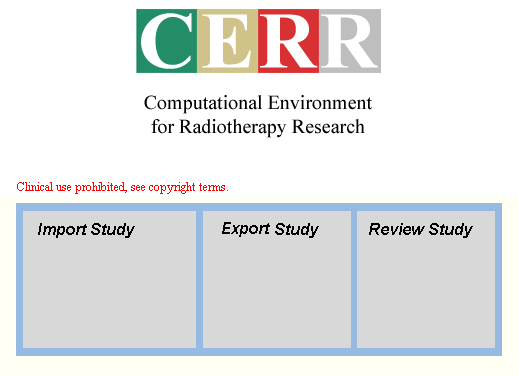
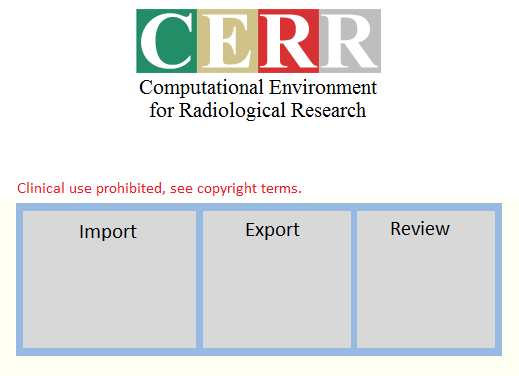
updated name to use "Radiological"

diff --git a/CERR_core/CERR.m b/CERR_core/CERR.m
@@ -79,7 +79,7 @@ if(nargin == 0)
     colormap(map);
     set(CERRStartupFig, 'Name',' CERR control panel'); % ES 28 Aug 2003
     set(gca, 'Position', [0 0 1 1]);
-    image(background, 'CDataMapping', 'direct')
+    image(background, 'CDataMapping', 'direct','parent',gca)
     axis(gca,'off', 'image')
     
     %get local and remote git info
@@ -90,13 +90,13 @@ if(nargin == 0)
         [remoteGitHash, localGitInfo] = getGitInfo;
     end
     [ver, date] = CERRCurrentVersion;    
-    uicontrol('units',units,'Position',[0 .57 0.3 .04],'String','Local GitHub Hash:','Style','text', 'BackgroundColor', [1 1 1], 'FontSize', 10, 'FontName', 'FixedWidth', 'HorizontalAlignment', 'right');
+    uicontrol('units',units,'Position',[0 .6 0.3 .04],'String','Local GitHub Hash:','Style','text', 'BackgroundColor', [1 1 1], 'FontSize', 10, 'FontName', 'FixedWidth', 'HorizontalAlignment', 'right');
     if ~isempty(localGitInfo)
-        uicontrol('units',units,'Position',[0.31 .57 0.67 .04],'String',localGitInfo.hash,'Style','edit', 'BackgroundColor', [1 1 1], 'FontSize', 10, 'FontName', 'FixedWidth', 'HorizontalAlignment', 'left');
+        uicontrol('units',units,'Position',[0.31 .6 0.67 .04],'String',localGitInfo.hash,'Style','edit', 'BackgroundColor', [1 1 1], 'FontSize', 10, 'FontName', 'FixedWidth', 'HorizontalAlignment', 'left');
     end
-    uicontrol('units',units,'Position',[0 .52 0.3 .04],'String','Date:','Style','text', 'BackgroundColor', [1 1 1], 'FontSize', 10, 'FontName', 'FixedWidth', 'HorizontalAlignment', 'right');
+    uicontrol('units',units,'Position',[0 .55 0.3 .04],'String','Date:','Style','text', 'BackgroundColor', [1 1 1], 'FontSize', 10, 'FontName', 'FixedWidth', 'HorizontalAlignment', 'right');
     if ~isempty(localGitInfo)
-        uicontrol('units',units,'Position',[0.31 .52 0.4 .04],'String',localGitInfo.date,'Style','edit', 'BackgroundColor', [1 1 1], 'FontSize', 10, 'FontName', 'FixedWidth', 'HorizontalAlignment', 'left');
+        uicontrol('units',units,'Position',[0.31 .55 0.4 .04],'String',localGitInfo.date,'Style','edit', 'BackgroundColor', [1 1 1], 'FontSize', 10, 'FontName', 'FixedWidth', 'HorizontalAlignment', 'left');
     end
     
     %Display link for Log file
